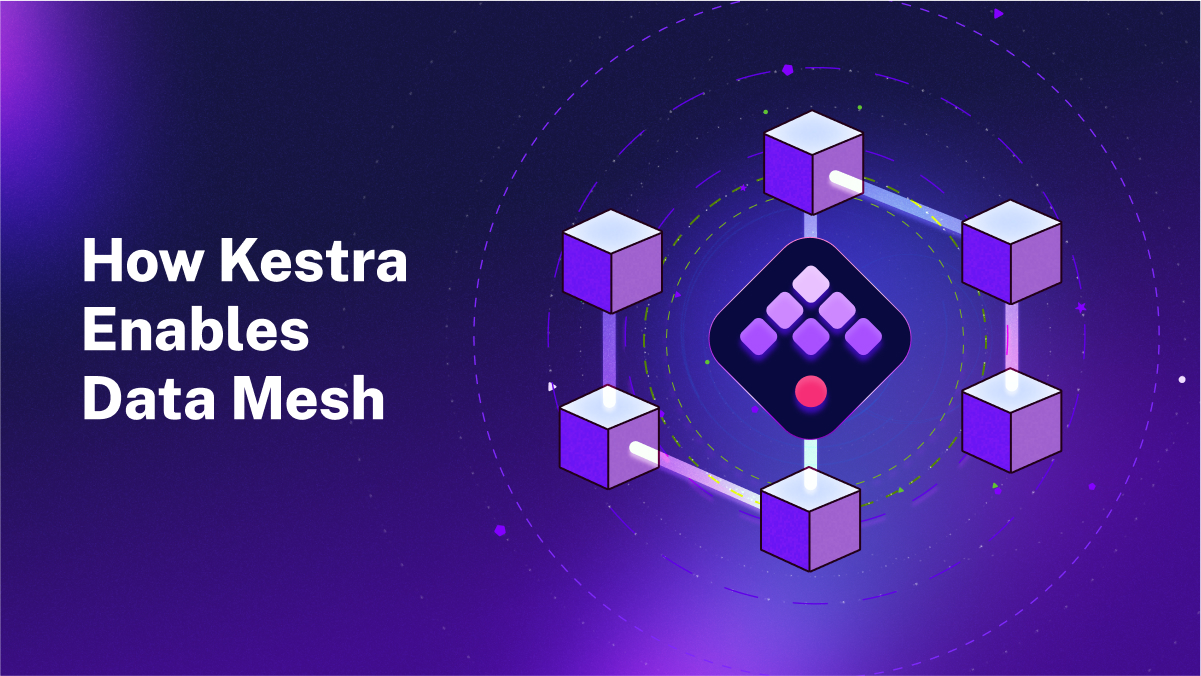
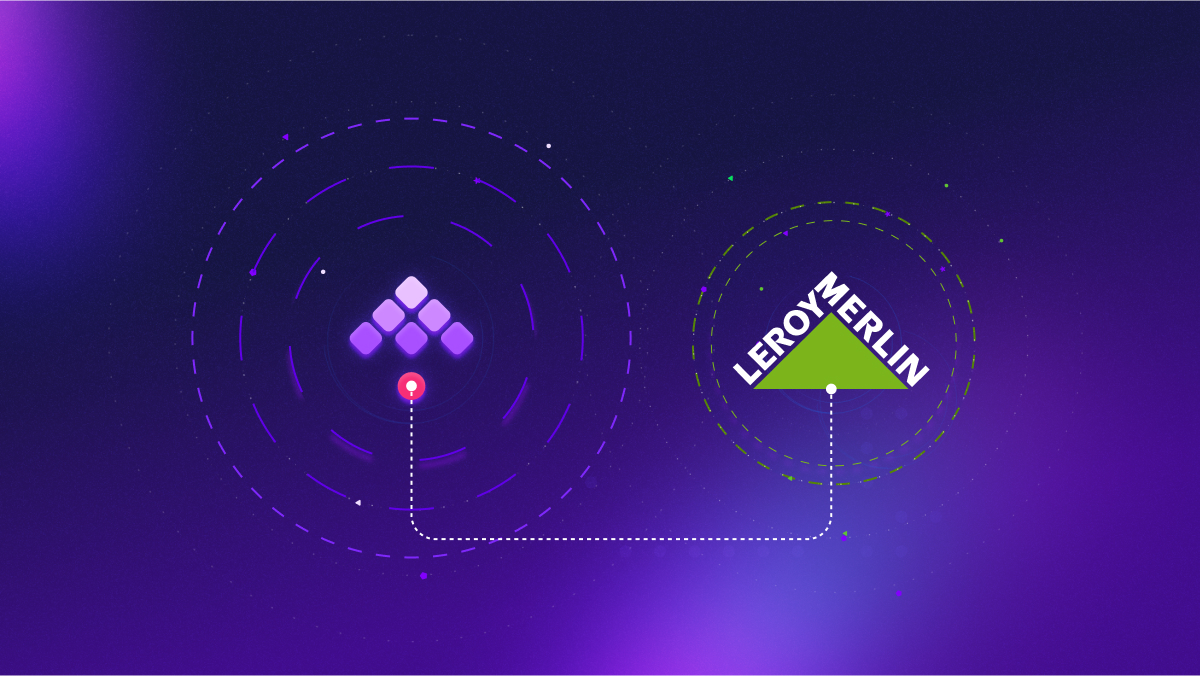
Update 2023-08-16-datamesh.md (#471)
* Update 2023-08-16-datamesh.md

* Update 2023-08-16-datamesh.jpg

* Update 2023-08-16-datamesh.md

* Update metrics.png

diff --git a/content/blogs/2023-08-16-datamesh.md b/content/blogs/2023-08-16-datamesh.md
@@ -1,5 +1,5 @@
 ---
-title: "How a Global Retailer Enabled Data Mesh at Scale with Kestra"
+title: "How Leroy Merlin France Enabled Data Mesh at Scale with Kestra"
 description: "Dive into their transformative journey migrating from Apache Airflow to a scalable Data Mesh Architecture with Kestra."
 date: 2023-08-16T16:00:00
 category: Solutions
@@ -9,7 +9,7 @@ author:
 image: /blogs/2023-08-16-datamesh.jpg
 ---
 
-In its transformation journey towards a cloud-based data infrastructure, a major retail company employing more than 100,000 people encountered significant challenges. At the time, they relied on a traditional on-premises data platform, using Teradata as its database, Talend for data integration, and then relied on global operations teams through service requests for scheduling using tools such as Dollar U and Automic Workload Automation. The team of 30 data engineers, organized by business domains, faced three major bottlenecks:
+In its transformation journey towards a cloud-based data infrastructure, Leroy Merlin France (LMFR) a global retail company employing more than 24,000 people encountered significant challenges. At the time, they relied on a traditional on-premises data platform, using Teradata as its database, Talend for data integration, and then relied on global operations teams through service requests for scheduling using tools such as Dollar U and Automic Workload Automation. The team of 30 data engineers, organized by business domains, faced three major bottlenecks:
 
 - An **infrastructure bottleneck** that required a rapid migration to a serverless cloud architecture using Google Cloud with BigQuery as the central source for business intelligence, analytics and AI.
 
@@ -17,14 +17,14 @@ In its transformation journey towards a cloud-based data infrastructure, a major
 
 - A **delivery and automation bottleneck** that required the adoption of CI/CD and DataOps principles to improve data operations
 
-Initially, the company turned to Apache Airflow, but a pilot project exposed several limitations. Looking for a better solution, they discovered Kestra, a tool that not only fulfilled the initial requirements but also unlocked the potential for a Data Mesh Architecture, enabling several hundred data practitioners to collaboratively and securely produce high-quality data analytics.
+Initially, LMFR turned to Apache Airflow, but a pilot project exposed several limitations. Looking for a better solution, they discovered Kestra, a tool that not only fulfilled the initial requirements but also unlocked the potential for a Data Mesh Architecture, enabling several hundred data practitioners to collaboratively and securely produce high-quality data analytics.
 
-The company has experienced a 900% increase in data production over the past two years. After adopting Kestra, the company experienced significant improvements in scalability, speed, reliability, data processing efficiency, and reduced cost. 
+Leroy Merlin France has experienced a 900% increase in data production over the past two years. After adopting Kestra, they experienced significant improvements in scalability, speed, reliability, data processing efficiency, and reduced cost. 
 
 ## Selecting the Right Data Orchestration Solution ##
 
 ### Why Apache Airflow failed in their organization
-The company considered a managed Apache Airflow service through Cloud Composer as its primary data orchestration solution due to the popularity of this open-source project. However, upon applying Airflow to a pilot project, they encountered several major issues unacceptable for such an organization:
+Leroy Merlin France considered a managed Apache Airflow service through Cloud Composer as its primary data orchestration solution due to the popularity of this open-source project. However, upon applying Airflow to a pilot project, they encountered several major issues unacceptable for such an organization:
 
 1. **Complexity in Simple Tasks**: The creation of workflows, previously straightforward, turned into a time-consuming task. Designing and maintaining DAGs amplified the complexity, causing processing delays and even generating bottlenecks instead of eliminating them.
 
@@ -132,7 +132,7 @@ Data transfer was set up via HTTPS directly to the Kestra API, reducing dependen
 ---
 
 ### Enhance Supply with Report Automation ###
-To support charitable initiatives, each store allocates a portion of the margin to be donated to program-affiliated associations. The task to calculate these sums, inform store leaders, and provide payment details is managed by Kestra.
+To support charitable initiatives, each store allocates a portion of the margin to be donated to program-affiliated associations. The task of calculating these sums, informing store leaders, and providing payment details is managed by Kestra.
 
 The data platform team used Kestra's capabilities to develop a dedicated workflow to handle this process. This workflow calculates the precise amounts to be allocated based on store performance metrics and other relevant data. The resulting sums are then prepared for distribution to the respective stores.
 
@@ -146,7 +146,7 @@ Despite the intricacies of handling large volumes of data and coordinating perso
 
 ![metrics Kestra](/blogs/2023-08-16-datamesh/metrics.png)
 
-Before Kestra integration, domain teams executed less than half a million tasks monthly. They used tools such as Talend, scheduled by DollarU or AWA, but moving toward cloud and scale processes was a significant bottleneck.
+Before Kestra integration, domain teams executed less than half a million tasks monthly. Leroy Merlin France used tools such as Talend, scheduled by DollarU or AWA, but moving toward cloud and scale processes was a significant bottleneck.
 
 However, with the shift to a data mesh organization and Kestra's integration, their task management surged to over 5 million tasks monthly, which amounts to 75 days of processing every single day!
 
@@ -159,7 +159,7 @@ That growth was not possible to accomplish with Apache Airflow.
 
 ## Next steps
 
-Kestra effectively addressed this top retailer's initial needs and exceeded expectations by facilitating an unexpected yet highly beneficial result: the establishment of a data mesh architecture.
+Kestra effectively addressed Leroy Merlin France's initial needs and exceeded expectations by facilitating an unexpected yet highly beneficial result: the establishment of a data mesh architecture.
 
 By implementing a data mesh, Kestra has empowered teams throughout the organization to independently manage and produce their own data pipelines. This not only promotes efficiency and reduces bottlenecks but also encourages ownership. Over a span of 18 months, the cumulative user base expanded by more than **900%**, totaling over **500 users**. These users transitioned from legacy tools, which supported only a limited set of executions and faltered at scale, to executing millions of tasks per month with Kestra, thereby generating significant value for their business.
 
